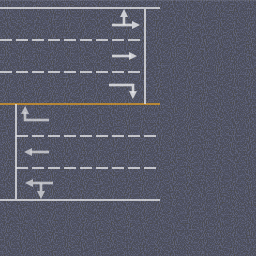
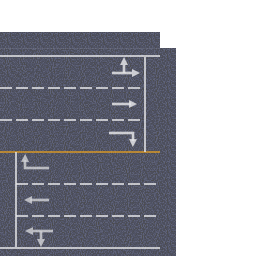
大通りを追加した

diff --git a/src/stage/school/city-road.js b/src/stage/school/city-road.js
@@ -1,35 +1,45 @@
 // @flow
-import type {Resources} from '../../resource-manager';
 import ThreeLib from 'three-js';
+import R from 'ramda';
+import type {Resources} from '../../resource-manager';
 import {TEXTURE_PATHS} from '../../resource-manager';
 
 const THREE = ThreeLib();
 
-const WIDTH = 100;
-const HEIGHT = 100;
+const MESH_WIDTH = 50;
+const MESH_HEIGHT = 325;
 
 const PICT_WIDTH = 256;
 const PICT_HEIGHT = 256;
 
 const TILE_WIDTH = 32;
-const TILE_HEIGHT = 32;
+const TILE_HEIGHT = 208;
 
-const tileMapping = (x: number, y: number): THREE.Vector[] => [
+/**
+ * タイルマップのUV座標セットを計算して返す
+ *
+ * @param x xの位置
+ * @param y yの位置
+ * @return UV座標セット
+ */
+const uvMappingPostionSet = (x: number, y: number): THREE.Vector2[] => [
   new THREE.Vector2(TILE_WIDTH/PICT_WIDTH * x, TILE_HEIGHT/PICT_HEIGHT * y),
   new THREE.Vector2(TILE_WIDTH/PICT_WIDTH * (x + 1), TILE_HEIGHT/PICT_HEIGHT * y),
   new THREE.Vector2(TILE_WIDTH/PICT_WIDTH * (x + 1), TILE_HEIGHT/PICT_HEIGHT * (y + 1)),
   new THREE.Vector2(TILE_WIDTH/PICT_WIDTH * x, TILE_HEIGHT/PICT_HEIGHT * (y + 1)),
-]
+];
 
 /**
- * 都会の道路
+ * タイルマップの平面を生成する
  *
- * @param resources リソース管理クラス
- * @return 都会の道路
+ * @param mapX　タイルマップでのX座標
+ * @param mapY　タイルマップでのY座標
+ * @param resources　リソース管理クラス
+ * @returns タイルマップ
  */
-export default function CityRoad(resources: Resources): THREE.Mesh {
-  let geometry = new THREE.PlaneGeometry(WIDTH, HEIGHT, 1, 1);
-  let uvMapping = tileMapping(0, 4);
+function createTileMesh(mapX:number, mapY: number, resources: Resources): THREE.Mesh {
+  let geometry = new THREE.PlaneGeometry(MESH_HEIGHT, MESH_WIDTH, 1, 1);
+  let uvMapping = uvMappingPostionSet(mapX, mapY);
   geometry.faceVertexUvs[0][0] = [uvMapping[0], uvMapping[1], uvMapping[3]];
   geometry.faceVertexUvs[0][1] = [uvMapping[1], uvMapping[2], uvMapping[3]];
 
@@ -42,6 +52,33 @@ export default function CityRoad(resources: Resources): THREE.Mesh {
   let mesh = new THREE.Mesh(geometry, material);
   mesh.rotation.x = -90 * Math.PI / 180;
   mesh.rotation.z = 90 * Math.PI / 180;
-
   return mesh;
+}
+
+/**
+ * 都会の道路
+ *
+ * @param resources リソース管理クラス
+ * @return 都会の道路
+ */
+export default function CityRoad(resources: Resources): THREE.Mesh {
+  const tile = (posX: number, posZ: number, mapX: number, mapY: number): THREE.Mesh => {
+    let mesh = createTileMesh(mapX, mapY, resources);
+    mesh.position.x = posX;
+    mesh.position.z = posZ;
+    return mesh;
+  };
+
+  let group = new THREE.Group();
+  [
+    tile(MESH_WIDTH * 0, MESH_HEIGHT * 0, 0, 0),
+    tile(MESH_WIDTH * 1, MESH_HEIGHT * 0, 1, 0),
+  ].concat(
+    R.range(2, 22).map(num => tile(MESH_WIDTH * num, MESH_HEIGHT * 0, 2, 0))
+  ).concat(
+    tile(MESH_WIDTH * 22, MESH_HEIGHT * 0, 3, 0),
+    tile(MESH_WIDTH * 23, MESH_HEIGHT * 0, 4, 0),
+  ).forEach(item => group.add(item));
+
+  return group;
 }

diff --git a/src/stage/school/index.js b/src/stage/school/index.js
@@ -61,6 +61,7 @@ export default class SchoolField {
 function Road(resources: Resources): Three.Mesh {
   let mesh = CityRoad(resources);
   mesh.position.z = 800;
+  mesh.position.x = -600;
   return mesh;
 }
 
